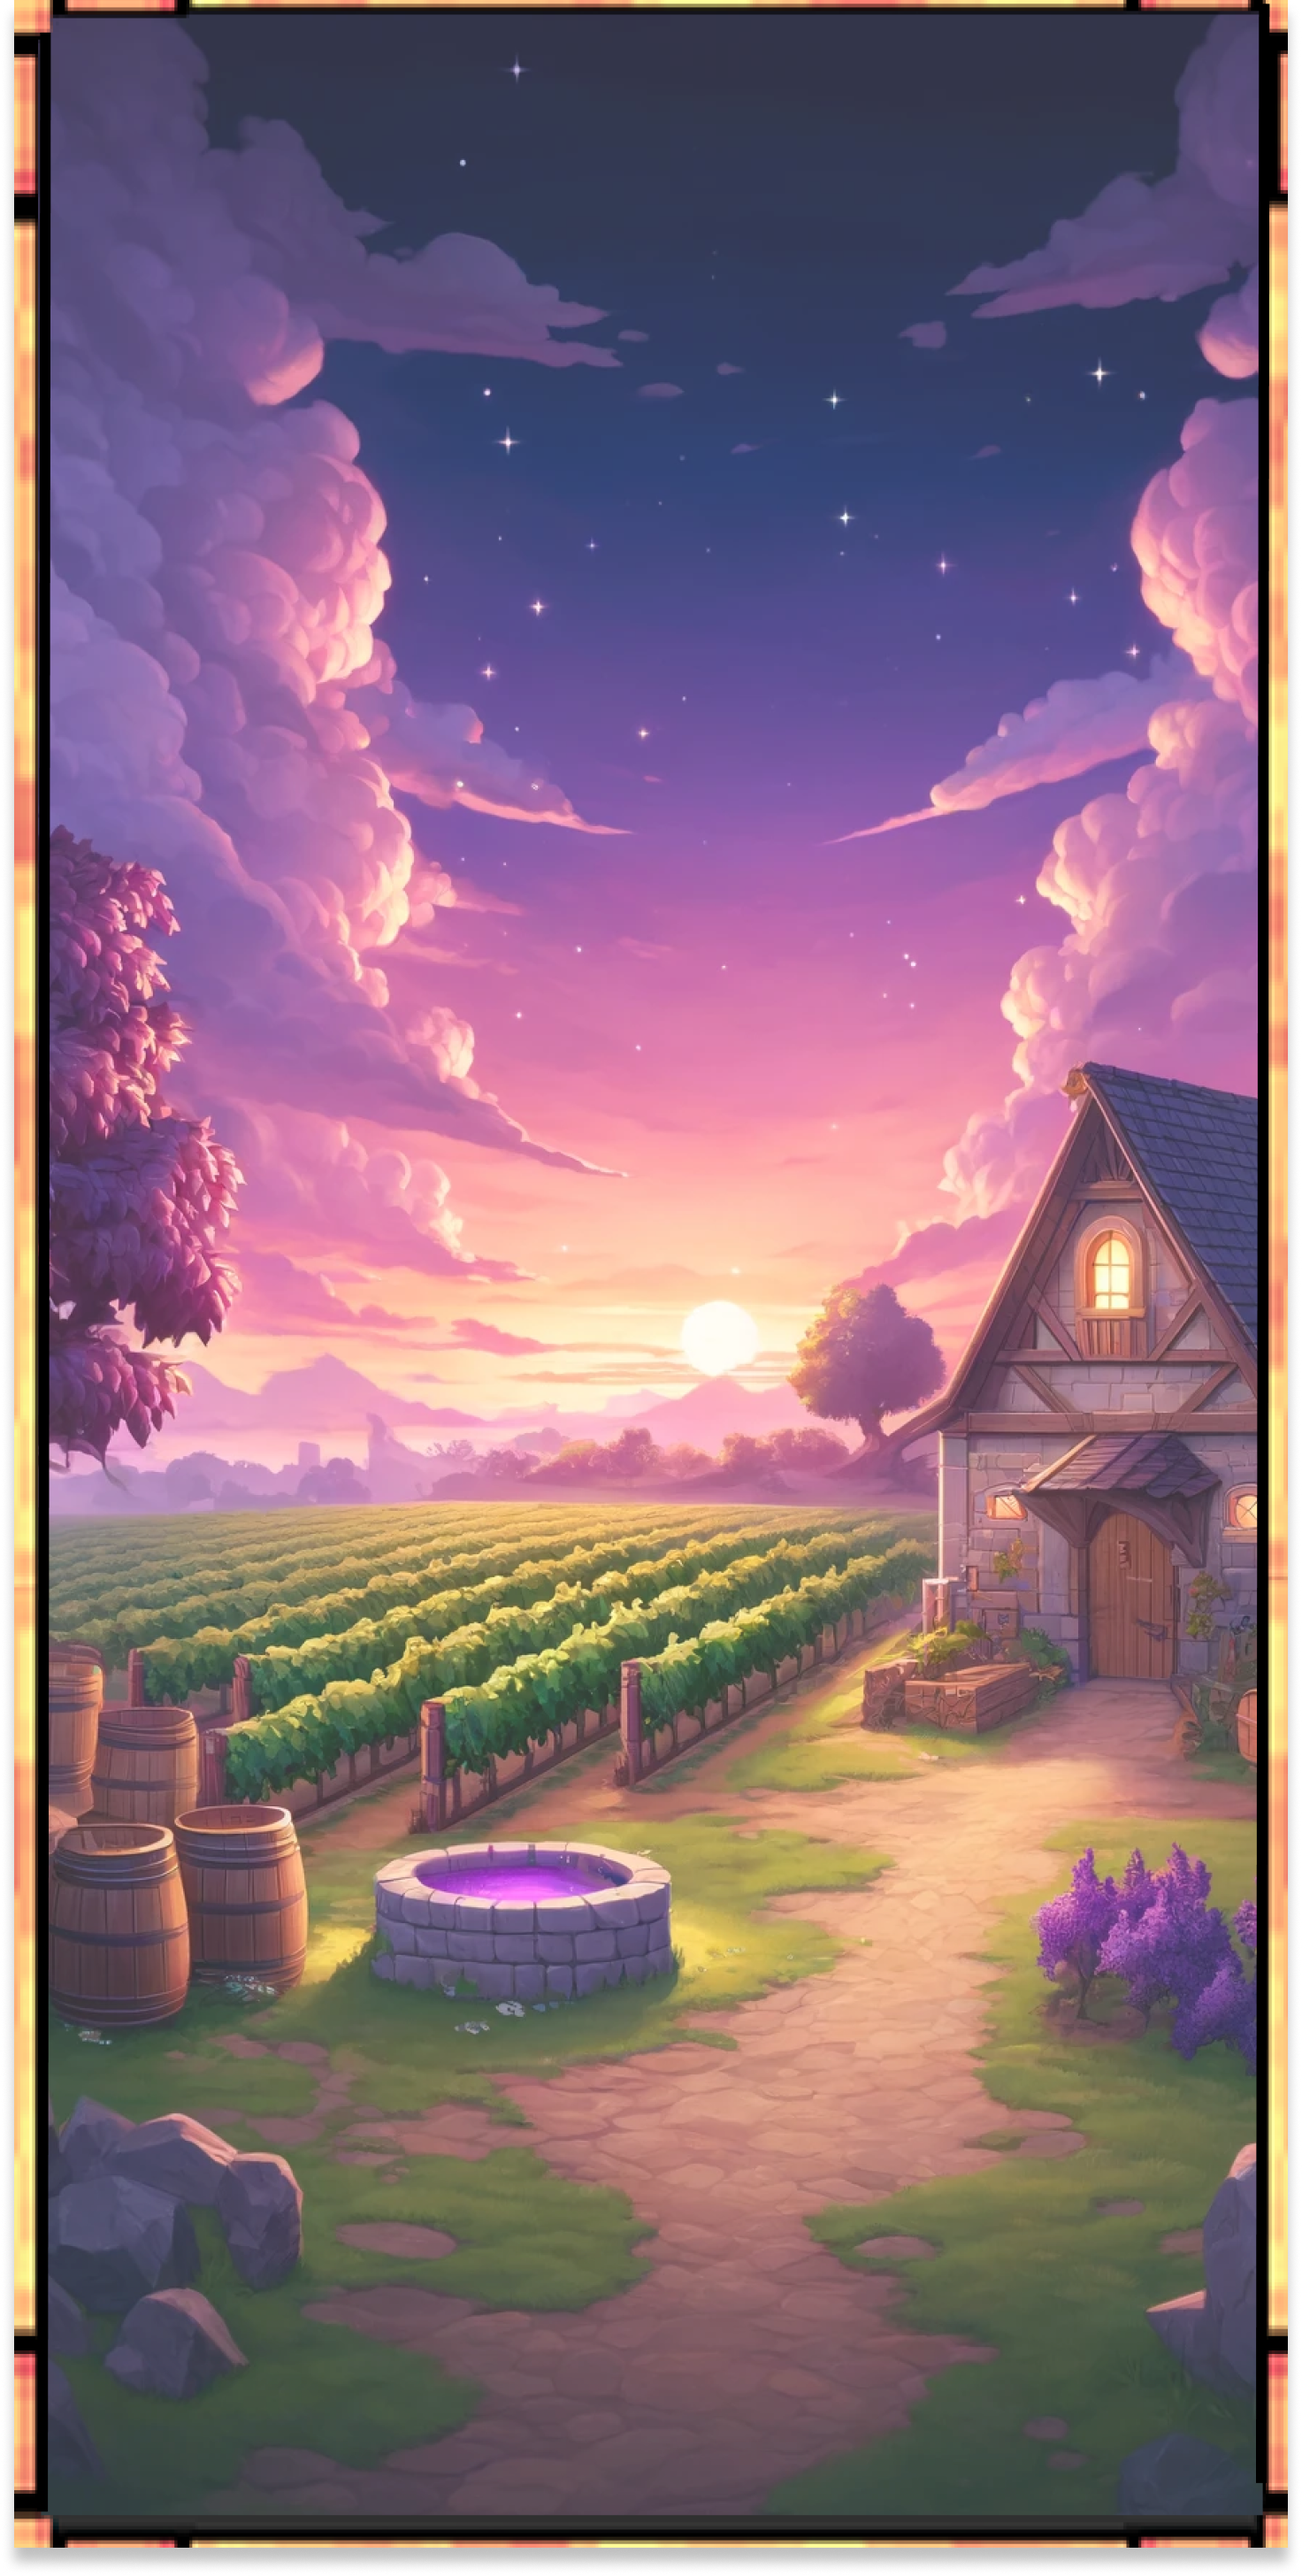
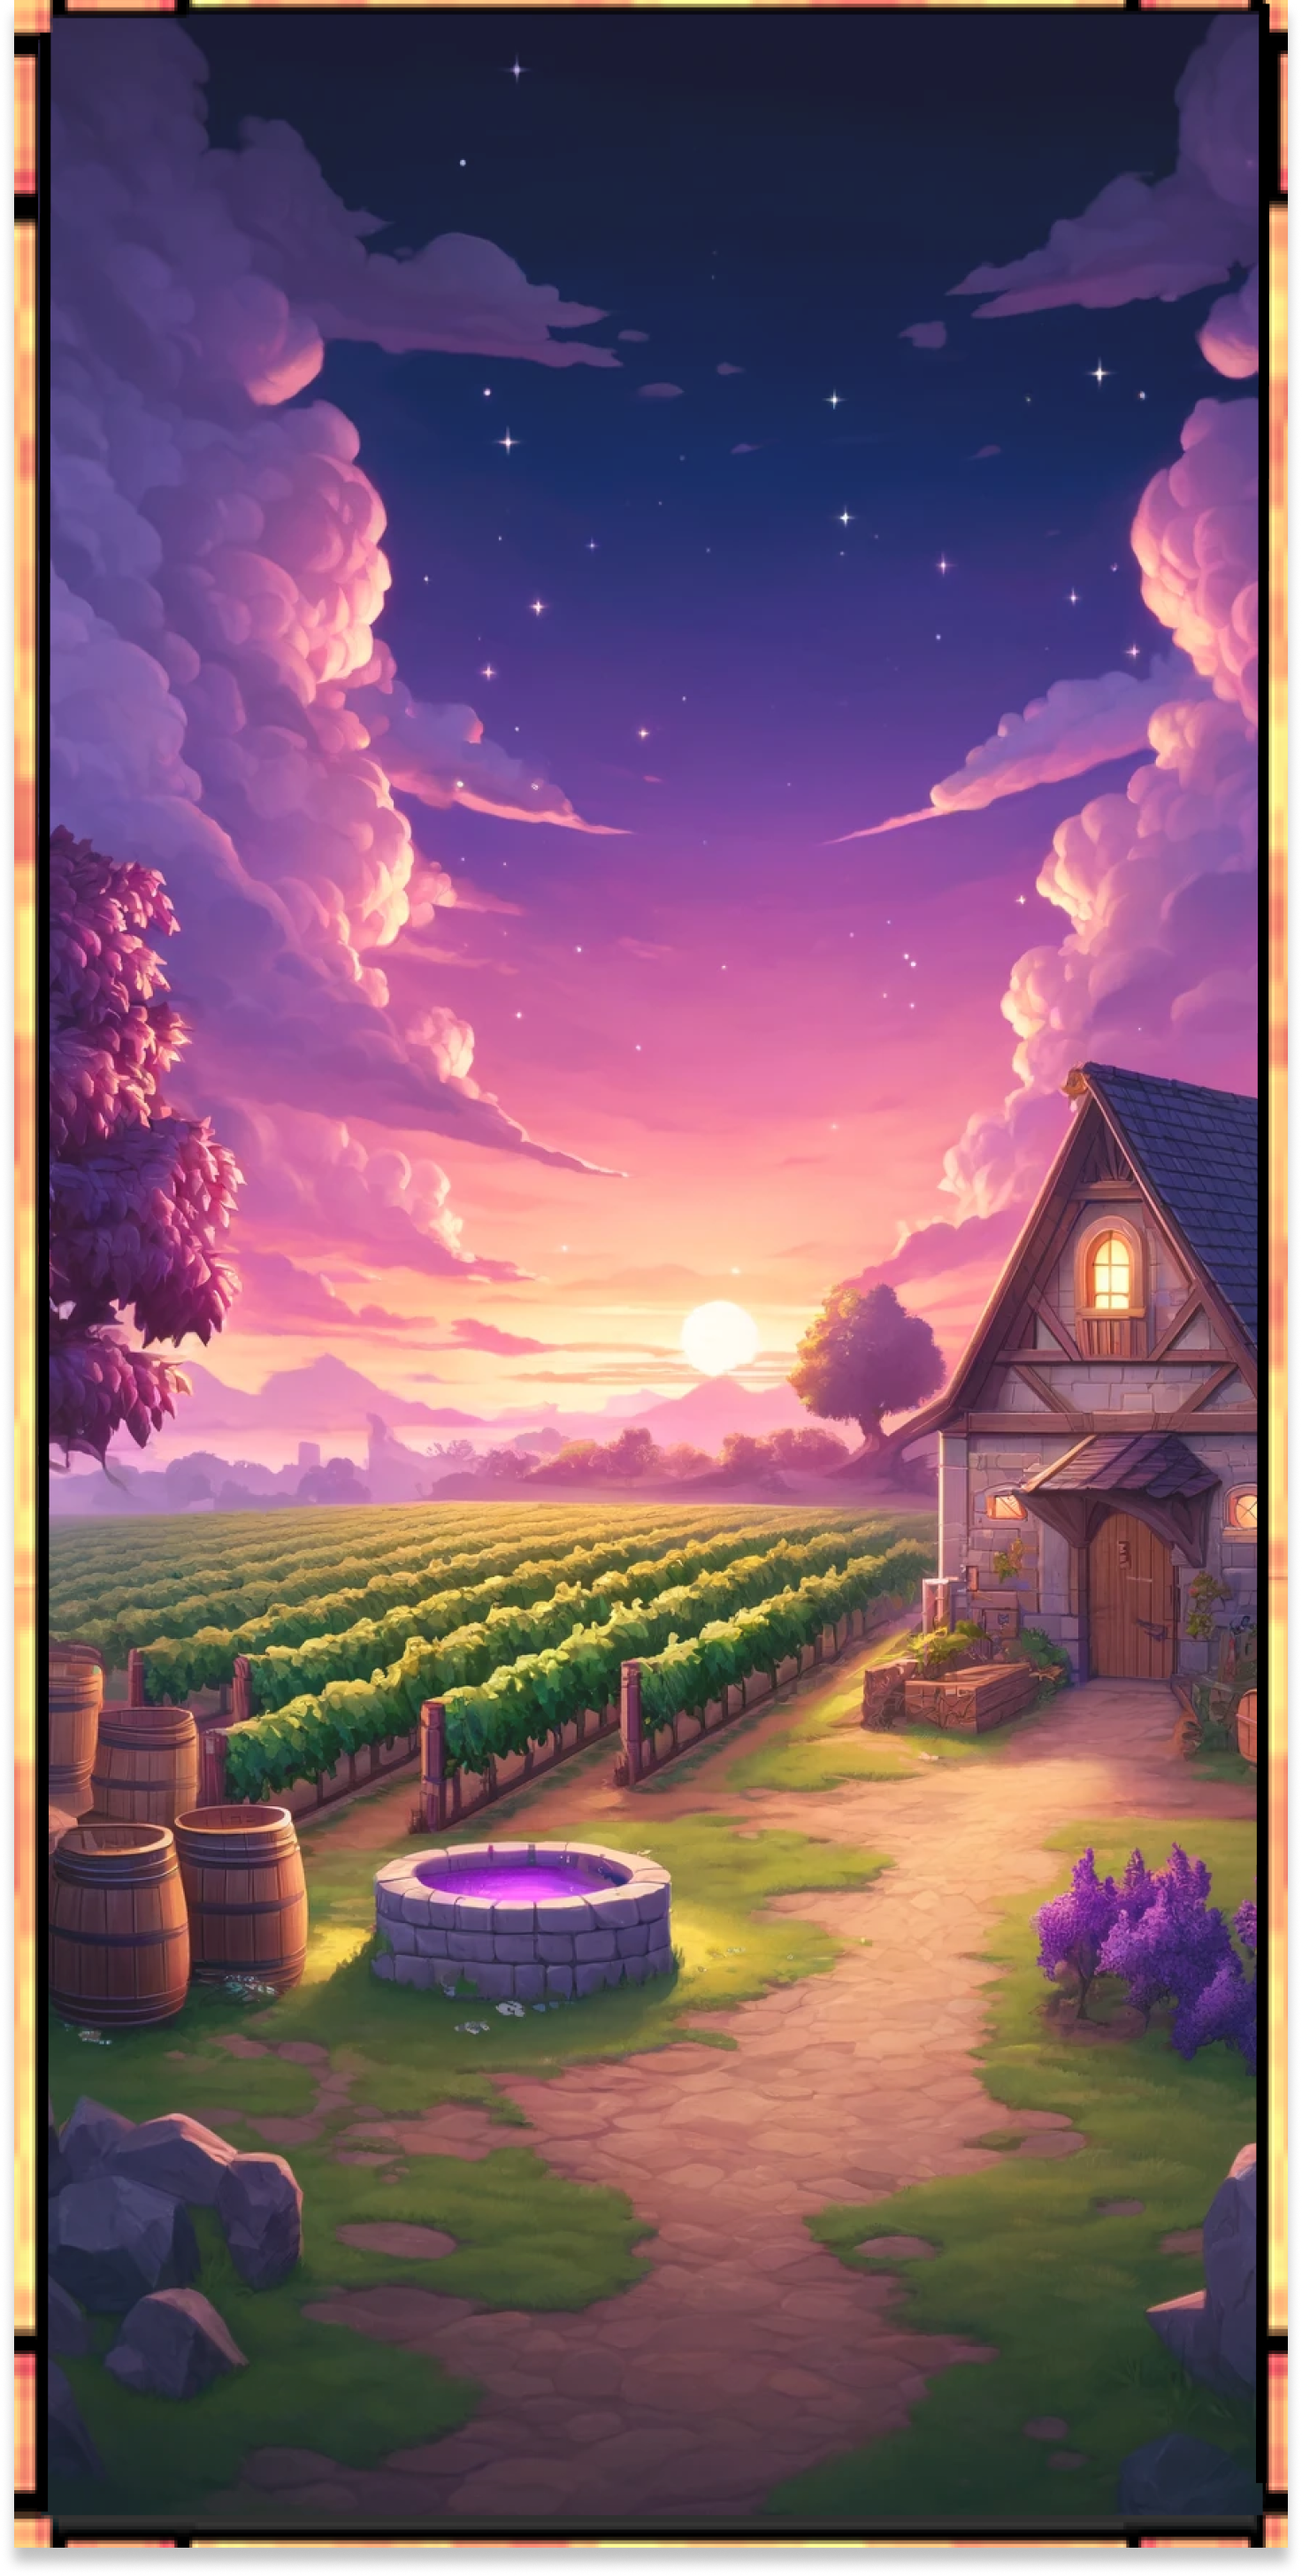
DNApage

diff --git a/src/Pane/Page/SpecialDNAPage.java b/src/Pane/Page/SpecialDNAPage.java
@@ -2,47 +2,55 @@ package Pane.Page;
 
 import GameEntity.UI.UIButton;
 import GameEntity.UI.UISprite;
+import Manager.PlayerManager;
 import Manager.SceneManager;
+import Manager.StatManager;
 import Pane.GameSideUIEditor;
-import Utils.Asset;
-import Utils.Text;
-import Utils.Transform;
-import Utils.Utility;
+import Utils.*;
 import javafx.scene.canvas.GraphicsContext;
 import javafx.scene.paint.Color;
-import Utils.ButtonType;
+
+import java.util.ArrayList;
 
 public class SpecialDNAPage extends GameSideUIEditor {
-    private UIButton buttonGoBack;
-    private UISprite textHeader;
-    private int moveYButton = 65;
-    private double x = Utility.getGameScreenX();
-    public SpecialDNAPage(GraphicsContext graphicsContext) {
+    private ArrayList<UIButton> allButtons = new ArrayList<>(); //0-4 upgrade button 5 go back button
+    private ArrayList<UISprite> allPrice = new ArrayList<>();
 
+    private int moveYButton = 70;
+    public SpecialDNAPage(GraphicsContext graphicsContext) {
         super(graphicsContext);
         //Background
         create(new UISprite(Asset.UI.backgroundSpecialDNAPage, new Transform(Utility.getGameScreenX(), 0, 0.3, 0.25), 50));
 
         //Header
-        create(new UISprite(Asset.UI.headerMain, new Transform(Utility.getGameScreenX() +90, 92, 0.93, 0.65), 53));
-        textHeader=(UISprite) create(new UISprite(new Text("Special DNA",Utility.getGameFont(22 ), Color.BLACK),
-                new Transform(x+132,120),52));
+        create(new UISprite(new Text("Special DNA",Utility.getGameFont(22 ), Color.BLACK),
+                new Transform(x+130,120),52));
 
         // Create the button
-        buttonGoBack = new UIButton(Asset.UI.backButtonNormal, new Transform(Utility.getGameScreenX() + 33, 660, 0.7, 1), 54 , ButtonType.BACK);
+        allButtons.add((UIButton) create(new UIButton(Asset.UI.upgradeButtonDNA, new Transform(Utility.getGameScreenX() + 310, 180 , 0.28, 0.27), 54 , ButtonType.UPGRADEDNA)));
 
+        // Create RifleDamage
+        allPrice.add( (UISprite) create(new UISprite(new Text("100", Utility.getGameFont(13), Color.YELLOWGREEN),
+                new Transform(allButtons.get(0).getTransform().getPosX() + 32,
+                        allButtons.get(0).getTransform().getPosY() + 23), 55)));
 
-        create(buttonGoBack);
+        // Create RifleFirerate
+        allButtons.add((UIButton) create( new UIButton(Asset.UI.upgradeButtonDNA, new Transform(Utility.getGameScreenX() + 310, 185 + moveYButton, 0.28, 0.27), 54 , ButtonType.UPGRADEDNA)));
+        allPrice.add( (UISprite) create(new UISprite(new Text("100", Utility.getGameFont(13), Color.YELLOWGREEN),
+                new Transform(allButtons.get(1).getTransform().getPosX() + 32,
+                        allButtons.get(1).getTransform().getPosY() + 23), 55)));
 
+        // Create the button
+        allButtons.add ((UIButton) create(new UIButton(Asset.UI.backButtonNormal, new Transform(Utility.getGameScreenX() + 33, 660, 0.38, 0.38), 54 , ButtonType.BACK)));
+        //choose upgrade
+        create(new UISprite(Asset.UI.upgradeChooseDNAPage, new Transform(Utility.getGameScreenX() +10, 145, 0.25, 0.25), 53));
 
 
     }
     @Override
     public void onUpdate() {
-        if(buttonGoBack.isPressed()){
-            SceneManager.setCurrentPage(new MainPage(graphicsContext));
-            System.out.println("Now is MainPage");
-        }
+        int coin = StatManager.getInstance().getCoin();
+        if(allButtons.get(2).isPressed()) SceneManager.setCurrentPage(new MainPage(graphicsContext));
 
     }
 }

diff --git a/src/Utils/Asset.java b/src/Utils/Asset.java
@@ -26,6 +26,7 @@ public class Asset {
         public static Image upgradeChoosePlayerPage;
         public static Image upgradeChooseEnemyPage;
         public static Image upgradeChooseGobletPage;
+        public static Image upgradeChooseDNAPage;
         public static Image backgroundPlayerPage;
         public static Image backgroundEnemyPage;
         public static Image backgroundGobletPage;
@@ -37,6 +38,9 @@ public class Asset {
         public static Image upgradeButtonHoverMeat;
         public static Image upgradeButtonPressedMeat;
         public static Image upgradeButtonCARTHoney;
+        public static Image upgradeButtonDNA;
+        public static Image upgradeButtonHoverDNA;
+        public static Image upgradeButtonNoMoneyDNA;
         public static Image buttonNavigatePlayer;
         public static Image buttonNavigateEnemy;
         public static Image buttonNavigateGoblet;
@@ -57,7 +61,7 @@ public class Asset {
             backgroundEnemyPage=LoadImg("UI/Background/backgroundEnemyPage.png");
             backgroundGobletPage=LoadImg("UI/Background/backgroundGobletPage.png");
             backgroundSpecialDNAPage=LoadImg("UI/Background/backgroundSpecialDNAPage.png");
-            backgroundGameplay=LoadImg("UI/Background/backgroundGameplay2.png");
+            backgroundGameplay=LoadImg("UI/Background/test2.png");
 
             //Button
             buttonNavigate=LoadImg("UI/Button/Navigate/buttonNavigate.png");
@@ -76,6 +80,9 @@ public class Asset {
             upgradeButtonHoney=LoadImg("UI/Button/Upgrade/Honey/upgradeButtonHoney.png");
             upgradeButtonNoMoneyHoney=LoadImg("UI/Button/Upgrade/Honey/upgradeButtonNoMoneyHoney.png");
             upgradeButtonCARTHoney=LoadImg("UI/Button/Upgrade/Honey/upgradeButtonCARTHoney.png");
+            upgradeButtonDNA=LoadImg("UI/Button/Upgrade/DNA/upgradeButtonDNA.png");
+            upgradeButtonHoverDNA=LoadImg("UI/Button/Upgrade/DNA/upgradeButtonHoverDNA.png");
+            upgradeButtonNoMoneyDNA=LoadImg("UI/Button/Upgrade/DNA/upgradeButtonNoMoneyDNA.png");
 
             spriteHover=LoadImg("UI/Button/spriteHover.png");
             spriteClick=LoadImg("UI/Button/Navigate/buttonNavigate.png");
@@ -83,6 +90,7 @@ public class Asset {
             upgradeChoosePlayerPage=LoadImg("UI/UpgradeChoose/upgradeChoosePlayerPage.png");
             upgradeChooseEnemyPage=LoadImg("UI/UpgradeChoose/upgradeChooseEnemyPage.png");
             upgradeChooseGobletPage=LoadImg("UI/UpgradeChoose/upgradeChooseGobletPage.png");
+            upgradeChooseDNAPage=LoadImg("UI/UpgradeChoose/upgradeChooseDNAPage.png");
 
             headerMain=LoadImg("UI/headerMain.png");
             currencyBG=LoadImg("UI/Currency/currencyBG.png");

diff --git a/src/GameEntity/UI/UIButton.java b/src/GameEntity/UI/UIButton.java
@@ -49,6 +49,12 @@ public class UIButton extends UISprite {
             if(buttonType == ButtonType.UPGRADEMEAT){
                 setSprite(Asset.UI.upgradeButtonNoMoneyMeat);
             }
+            else if(buttonType == ButtonType.UPGRADEHONEY){
+                setSprite(Asset.UI.upgradeButtonNoMoneyHoney);
+            }
+            else if(buttonType == ButtonType.UPGRADEDNA){
+                setSprite(Asset.UI.upgradeButtonNoMoneyDNA);
+            }
 
 
         }
@@ -70,6 +76,9 @@ public class UIButton extends UISprite {
                 }
                 else if(buttonType == ButtonType.UPGRADEHONEY){
                     setSprite(Asset.UI.upgradeButtonCARTHoney);
+                }
+                else if(buttonType == ButtonType.UPGRADEDNA){
+                    setSprite(Asset.UI.upgradeButtonHoverDNA);
                 }
                 else if(buttonType == ButtonType.BACK){
                     setSprite(Asset.UI.backButtonHover);
@@ -98,6 +107,9 @@ public class UIButton extends UISprite {
                 }
                 else if(buttonType == ButtonType.BACK){
                     setSprite(Asset.UI.backButtonNormal);
+                }
+                else if(buttonType == ButtonType.UPGRADEDNA){
+                    setSprite(Asset.UI.upgradeButtonDNA);
                 }
 
             }

diff --git a/src/Pane/Page/GobletPage.java b/src/Pane/Page/GobletPage.java
@@ -67,7 +67,7 @@ public class GobletPage extends GraphicEditor {
                         allButtons.get(2).getTransform().getPosY() + 23), 55)));
         allLvL.add((UISprite) create(new UISprite(new Text("Lv.1", Utility.getGameFont(13), Color.WHITE) ,new Transform(Utility.getGameScreenX() + 250, 190 + moveYButton*2, 0.25, 0.25), 55)));
         allDescription.add((UISprite) create(new UISprite(new Text("Damage multiplier : 0", Utility.getGameFont(11), Color.WHITE) ,new Transform(Utility.getGameScreenX() + 60, 210 + moveYButton*2, 0.25, 0.25), 55)));
-        allIncrease.add((UISprite) create(new UISprite(new Text("+0 multiplier", Utility.getGameFont(10), Color.WHITE) ,new Transform(Utility.getGameScreenX() + 320, 210 + moveYButton*2, 0.25, 0.25), 55)));
+        allIncrease.add((UISprite) create(new UISprite(new Text("+0 multiplier", Utility.getGameFont(10), Color.WHITE) ,new Transform(Utility.getGameScreenX() + 320 , 210 + moveYButton*2, 0.25, 0.25), 55)));
 
         // Create EmbraceGalore
         allButtons.add((UIButton) create( new UIButton(Asset.UI.upgradeButtonHoney, new Transform(Utility.getGameScreenX() + 310, 170 + moveYButton*3, 0.28, 0.27), 54 , ButtonType.UPGRADEHONEY)));

diff --git a/src/Pane/GameplayEditor.java b/src/Pane/GameplayEditor.java
@@ -12,7 +12,7 @@ public class GameplayEditor extends GraphicEditor{
     public GameplayEditor(GraphicsContext graphicsContext) {
         super(graphicsContext);
         //Background
-        create(new UISprite(Asset.UI.backgroundGameplay, new Transform(0, 0, 0.63, 0.71), -100));
+        create(new UISprite(Asset.UI.backgroundGameplay, new Transform(-250, 0, 0.7, 0.7), -100));
 
 
         // DUMMY TEST

diff --git a/src/Utils/ButtonType.java b/src/Utils/ButtonType.java
@@ -1,5 +1,5 @@
 package Utils;
 
 public enum ButtonType {
-    UPGRADEMEAT , UPGRADEHONEY , NAVIGATORPLAYER , NAVIGATORENEMY , NAVIGATORGOBLET , NAVIGATORDNA , BACK
+    UPGRADEMEAT , UPGRADEHONEY ,UPGRADEDNA, NAVIGATORPLAYER , NAVIGATORENEMY , NAVIGATORGOBLET , NAVIGATORDNA , BACK
 }
